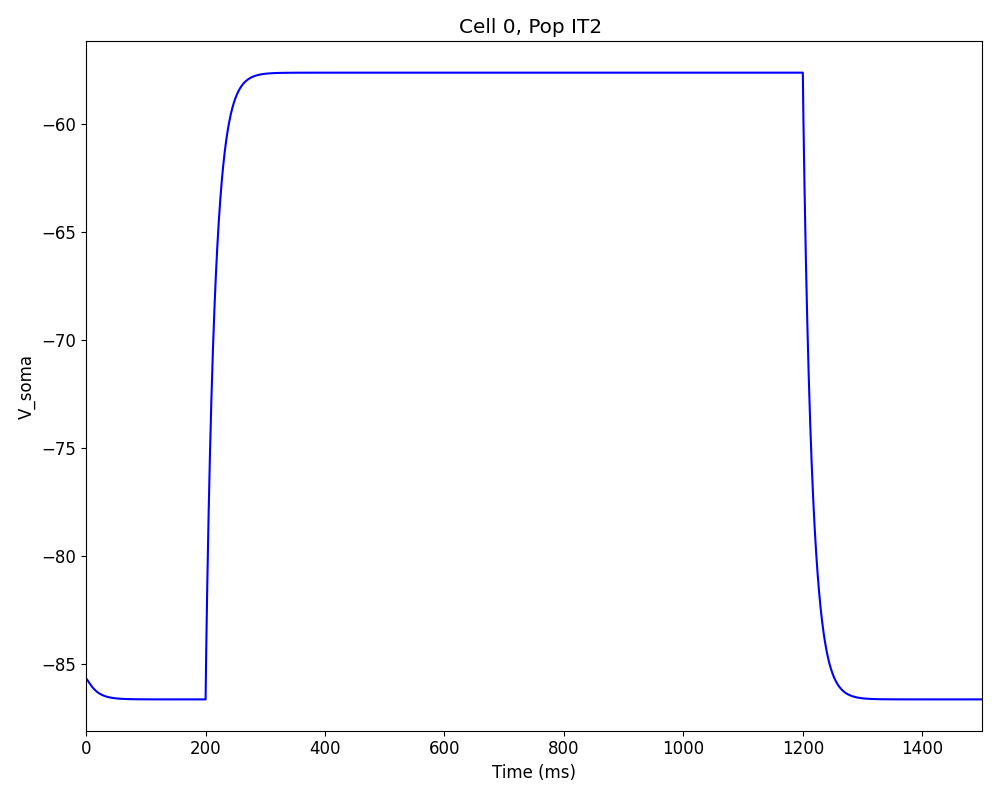
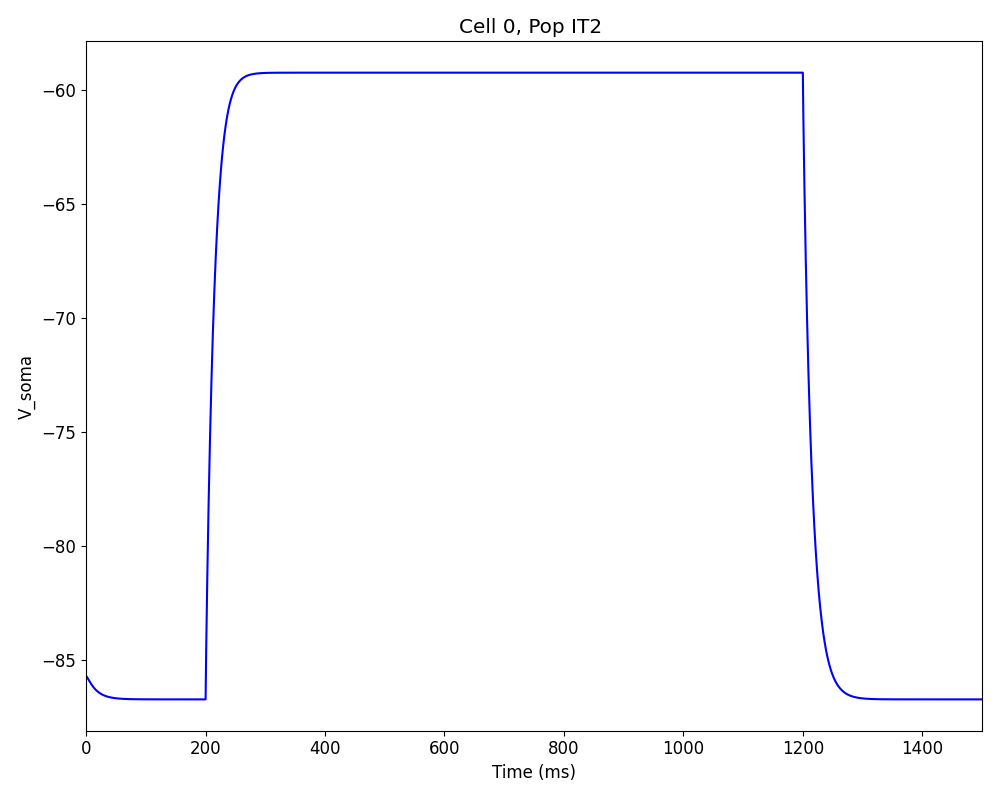
match nml and netpyne

diff --git a/NeuroML2/compare_MC/IT2/IT2_json.py b/NeuroML2/compare_MC/IT2/IT2_json.py
@@ -5,7 +5,7 @@ netParams = specs.NetParams()
 simConfig = specs.SimConfig()
 
 
-netParams.loadCellParamsRule(label='IT2_HH_reduced', fileName='IT2_reduced_cellParams_pas.json')
+netParams.loadCellParamsRule(label='IT2_HH_reduced', fileName='IT2_reduced_cellParams_pas_kap.json')
 pprint.pprint(netParams.cellParams['IT2_HH_reduced'])
 
 
@@ -27,7 +27,7 @@ simConfig.hParams['celsius'] = 34
 simConfig.verbose = False           # Show detailed messages
 simConfig.recordTraces = {'V_soma':{'sec':'soma','loc':0.5,'var':'v'}}  # Dict with traces to record
 simConfig.recordStep = 0.01            # Step size in ms to save data (eg. V traces, LFP, etc)
-simConfig.filename = 'IT2_reduced_pas'         # Set file output name
+simConfig.filename = 'IT2_reduced_pas_kap'         # Set file output name
 simConfig.savePickle = False        # Save params, network and sim output to pickle file
 simConfig.saveDataInclude = ['simData']  
 simConfig.saveJson = True 